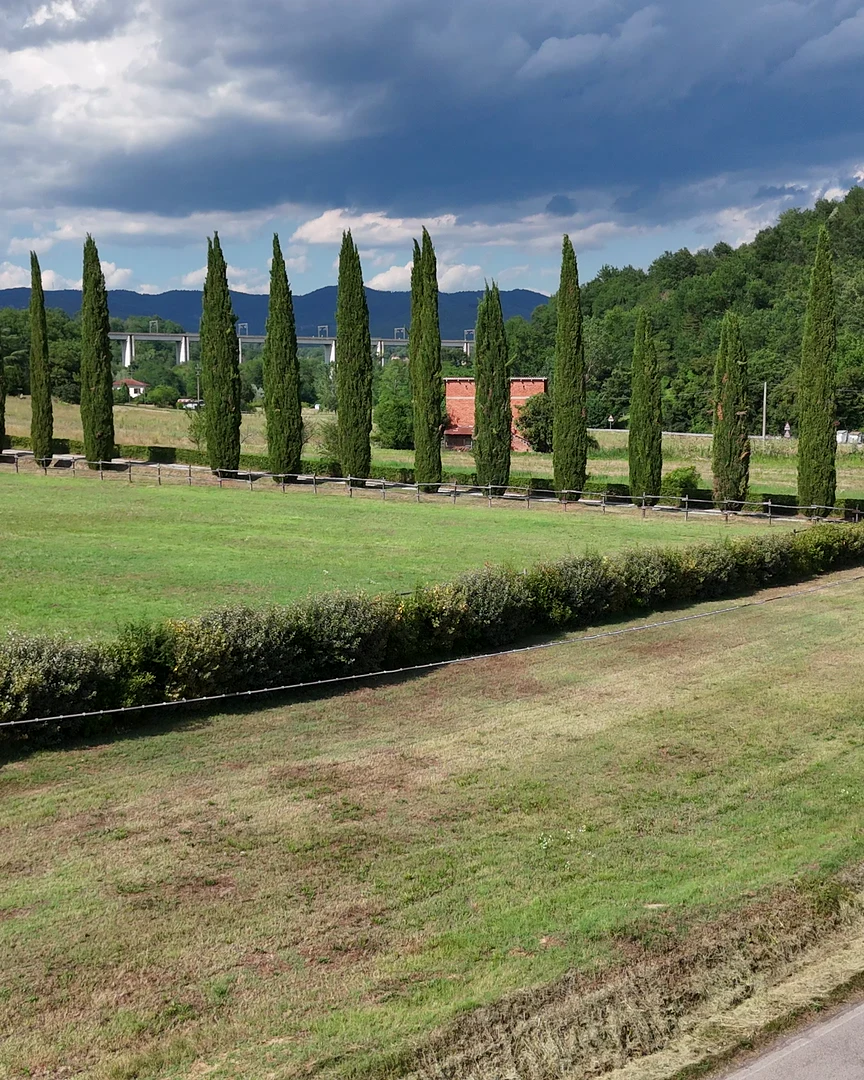
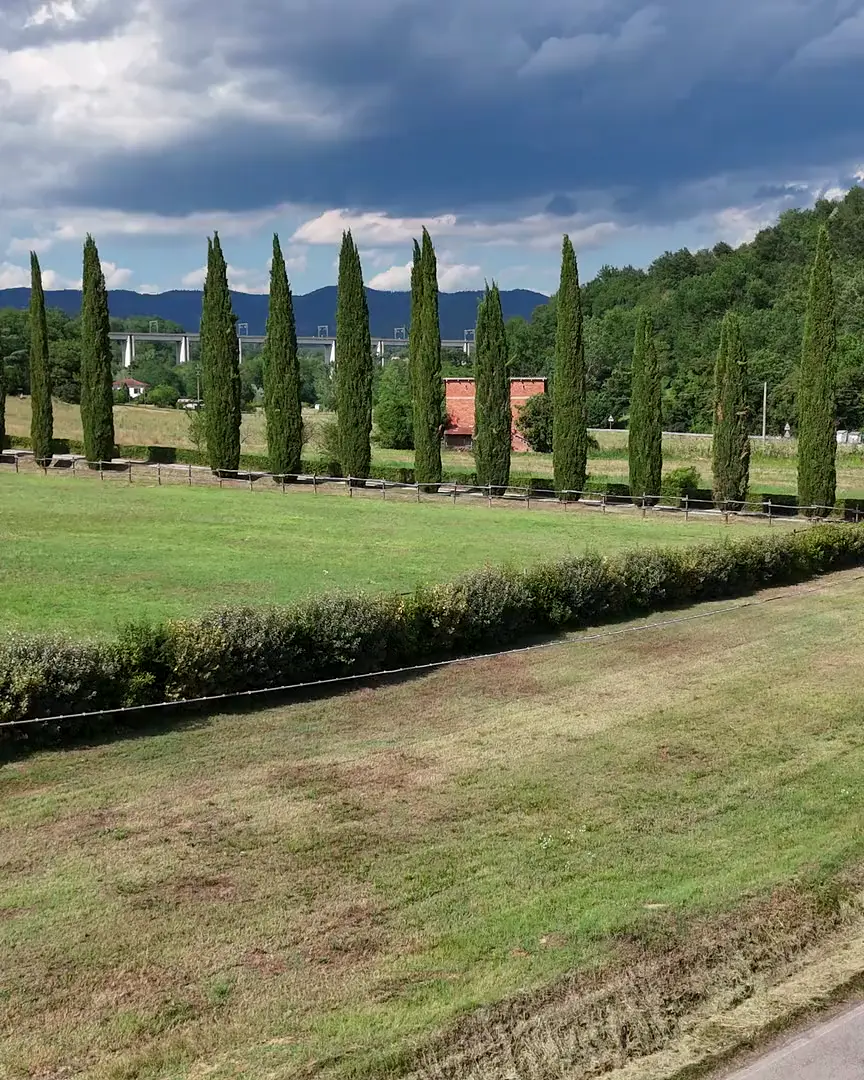
Velocita' e messa online: librerie in parallelo con avvio garantito in 2,5 s, foto hero ritagliate per telefono, sfondi Night/Prenota caricati solo in vicinanza, loghi e anteprime video piu' leggeri, rimosso messaggio di errore nel footer, intestazioni di sicurezza nella configurazione Hostinger

diff --git a/index.html b/index.html
@@ -67,8 +67,9 @@
        scritti dentro la pagina; 'unsafe-eval' NON è concesso.
        object-src 'none' e base-uri 'self' chiudono due classiche vie d'attacco;
        form-action 'none' impedisce l'invio di dati verso l'esterno (il sito
-       non ha moduli); frame-ancestors 'none' impedisce che il sito venga
-       incorniciato in pagine altrui (clickjacking). -->
+       non ha moduli). La protezione dall'incorniciamento in pagine altrui
+       (frame-ancestors) funziona solo come intestazione del server: e' in
+       hostinger-cache.conf, qui il browser la ignorava segnalando un errore. -->
   <meta http-equiv="Content-Security-Policy" content="
     default-src 'self';
     script-src 'self' 'unsafe-inline' https://cdnjs.cloudflare.com https://unpkg.com;
@@ -80,7 +81,6 @@
     object-src 'none';
     base-uri 'self';
     form-action 'none';
-    frame-ancestors 'none';
     upgrade-insecure-requests">
 
   <!-- Non invia l'indirizzo delle pagine visitate ai siti esterni -->
@@ -123,7 +123,9 @@
   <title>Casale Durgoni — Villa leopoldina con piscina privata · Laterina, Arezzo</title>
   <meta name="description" content="Autentica villa leopoldina ai piedi del borgo di Laterina, alle porte di Arezzo. Piscina privata ad uso esclusivo, parco ombreggiato e tre appartamenti indipendenti.">
   <!-- prima foto dell'hero: scaricata subito, in parallelo a tutto il resto -->
-  <link rel="preload" as="image" href="img/hero/hero-5.webp" fetchpriority="high">
+  <!-- telefono in verticale: versione ritagliata al centro (piu' leggera) -->
+  <link rel="preload" as="image" href="img/hero/m/hero-5.webp" media="(max-width: 767px) and (orientation: portrait)" fetchpriority="high">
+  <link rel="preload" as="image" href="img/hero/hero-5.webp" media="(min-width: 768px), (orientation: landscape)" fetchpriority="high">
   <link rel="preconnect" href="https://fonts.googleapis.com">
   <link rel="preconnect" href="https://fonts.gstatic.com" crossorigin>
   <!-- I caratteri non bloccano piu' il primo disegno: si caricano in
@@ -1526,8 +1528,14 @@
     .night .bg {
       position: absolute;
       inset: -14% 0;
-      background: url('img/night-bg.jpg') center/cover no-repeat;
+      background: center/cover no-repeat;
       will-change: transform
+    }
+
+    /* gli sfondi di Night e Prenota si scaricano solo quando la sezione si
+       avvicina (classe "near"): prima partivano subito, all'apertura */
+    .night.near .bg {
+      background-image: url('img/night-bg.jpg')
     }
 
     .night .veil {
@@ -2029,8 +2037,12 @@
     .cta .bg {
       position: absolute;
       inset: -14% 0;
-      background: url('img/cta-bg.jpg') center/cover no-repeat;
+      background: center/cover no-repeat;
       will-change: transform
+    }
+
+    .cta.near .bg {
+      background-image: url('img/cta-bg.jpg')
     }
 
     .cta .veil {
@@ -2127,11 +2139,11 @@
     @media (max-width:820px) {
 
       /* sfondi alleggeriti: sul telefono bastano 640 px di larghezza */
-      .night .bg {
+      .night.near .bg {
         background-image: url('img/m/night-bg.webp')
       }
 
-      .cta .bg {
+      .cta.near .bg {
         background-image: url('img/m/cta-bg.webp')
       }
     }
@@ -3142,6 +3154,22 @@
       background-image: url('img/hero/hero-6.webp')
     }
 
+    /* Telefono in verticale: lo schermo mostra solo la parte centrale
+       della foto, quindi si scarica gia' ritagliata (~40% in meno). */
+    @media (max-width: 767px) and (orientation: portrait) {
+      html.herophoto .hp1 {
+        background-image: url('img/hero/m/hero-5.webp')
+      }
+
+      html.herophoto.hin .hp2 {
+        background-image: url('img/hero/m/hero-4.webp')
+      }
+
+      html.herophoto.hin .hp3 {
+        background-image: url('img/hero/m/hero-6.webp')
+      }
+    }
+
     /* direzioni del lento movimento, diverse per ogni foto */
     html.herophoto .hp2 {
       --x0: -.5%;
@@ -3436,7 +3464,7 @@
     /* ---------- riquadro della frase: ripresa col drone in loop ----------
        Lo sfondo e' il primo fotogramma del video: finche' il video non e'
        pronto, e durante il riavvio del loop, si vede quello, senza stacchi. */
-    html.nightvideo .night .bg {
+    html.nightvideo .night.near .bg {
       background-image: url('video/villa-pc.webp')
     }
 
@@ -3495,7 +3523,7 @@
     }
 
     @media (max-width: 767px) and (orientation: portrait) {
-      html.nightvideo .night .bg {
+      html.nightvideo .night.near .bg {
         background-image: url('video/villa-m.webp')
       }
     }
@@ -3509,6 +3537,14 @@
 
       #loader {
         display: none
+      }
+
+      .night .bg {
+        background-image: url('img/night-bg.jpg')
+      }
+
+      .cta .bg {
+        background-image: url('img/cta-bg.jpg')
       }
     </style>
   </noscript>
@@ -3527,7 +3563,7 @@
         <circle class="ld-track" cx="100" cy="100" r="94" />
         <circle class="ld-prog" id="ldRing" cx="100" cy="100" r="94" />
       </svg>
-      <img class="ld-logo" src="img/loader-logo.png" alt="Casale Durgoni" fetchpriority="high" decoding="async">
+      <img class="ld-logo" src="img/loader-logo.webp" width="400" height="400" alt="Casale Durgoni" fetchpriority="high" decoding="async">
     </div>
   </div>
 
@@ -3537,7 +3573,7 @@
   <div id="pbar"></div>
 
   <nav id="nav">
-    <a class="brand-logo mag" href="#top"><img src="img/brand-logo.png" alt="Casale Durgoni"></a>
+    <a class="brand-logo mag" href="#top"><img src="img/brand-logo.webp" width="160" height="160" alt="Casale Durgoni"></a>
     <div class="pill links">
       <a href="#tenuta" data-en="The Estate">La Tenuta</a>
       <a href="#galleria" data-en="Gallery">Galleria</a>
@@ -4120,6 +4156,8 @@
       s.src = src;
       s.crossOrigin = 'anonymous';
       s.referrerPolicy = 'no-referrer';
+      /* scaricati insieme, eseguiti in ordine di inserimento */
+      s.async = false;
       s.onload = cb;
       s.onerror = cb;
       document.head.appendChild(s);
@@ -4134,10 +4172,6 @@
         if (l) l.classList.add('off');
         document.documentElement.classList.remove('lding');
         document.documentElement.classList.add('hin');
-        try {
-          var lg = document.querySelector('.legal span:last-child');
-          if (lg && ev && ev.message) lg.textContent = 'v5 · errore: ' + String(ev.message).slice(0, 90);
-        } catch (_) {}
       });
       var reduced = matchMedia('(prefers-reduced-motion: reduce)').matches;
       var touch = matchMedia('(hover: none)').matches;
@@ -4944,7 +4978,7 @@
         hpImg.onerror = function() {
           heroImgReady = true;
         };
-        hpImg.src = 'img/hero/hero-5.webp';
+        hpImg.src = matchMedia('(max-width: 767px) and (orientation: portrait)').matches ? 'img/hero/m/hero-5.webp' : 'img/hero/hero-5.webp';
       }
 
       var ldTimer = setInterval(function() {
@@ -5656,6 +5690,31 @@
       }, { rootMargin: '300px 0px' }).observe(v.closest('.night-frame'));
     })();
 
+    /* Sfondi pigri di Night e Prenota: la classe "near" li attiva quando la
+       sezione e' a meno di ~900 px dallo schermo. */
+    (function() {
+      var els = document.querySelectorAll('.night, .cta');
+      if (!('IntersectionObserver' in window)) {
+        els.forEach(function(el) {
+          el.classList.add('near');
+        });
+        return;
+      }
+      var io = new IntersectionObserver(function(entries) {
+        entries.forEach(function(en) {
+          if (en.isIntersecting) {
+            en.target.classList.add('near');
+            io.unobserve(en.target);
+          }
+        });
+      }, {
+        rootMargin: '900px 0px'
+      });
+      els.forEach(function(el) {
+        io.observe(el);
+      });
+    })();
+
     /* Su telefono si parte subito. Su computer si attendono GSAP e Lenis,
        che servono per le animazioni e lo scorrimento smorzato. */
     (function() {
@@ -5668,14 +5727,23 @@
         'https://cdnjs.cloudflare.com/ajax/libs/gsap/3.12.5/ScrollTrigger.min.js',
         'https://unpkg.com/lenis@1.1.14/dist/lenis.min.js'
       ];
-      var i = 0;
-      (function next() {
-        if (i >= urls.length) {
-          boot();
-          return;
-        }
-        window.loadScript(urls[i++], next);
-      })();
+      /* Le tre librerie si scaricano in parallelo (prima una dopo l'altra)
+         ma vengono eseguite nell'ordine giusto. Se un server esterno e'
+         lento o non risponde, dopo 2,5 s il sito parte comunque senza
+         animazioni: prima si poteva restare fermi sul caricamento. */
+      var started = false,
+        left = urls.length;
+      var go = function() {
+        if (started) return;
+        started = true;
+        boot();
+      };
+      urls.forEach(function(u) {
+        window.loadScript(u, function() {
+          if (--left === 0) go();
+        });
+      });
+      setTimeout(go, 2500);
     })();
   </script>
 
